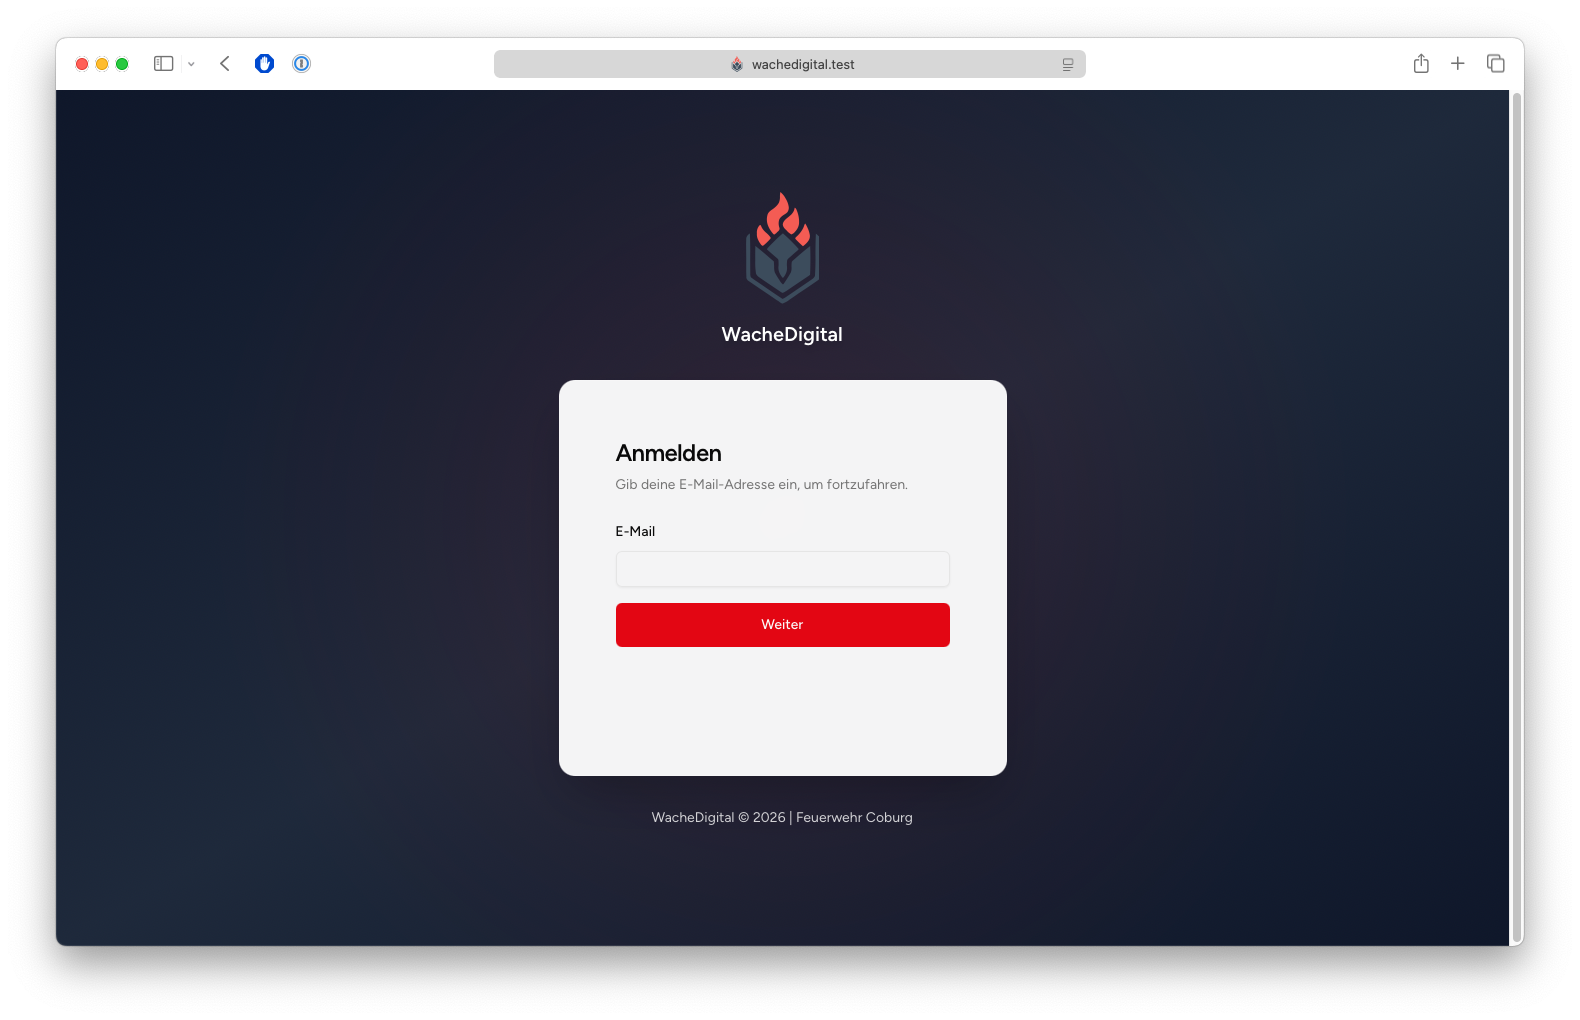
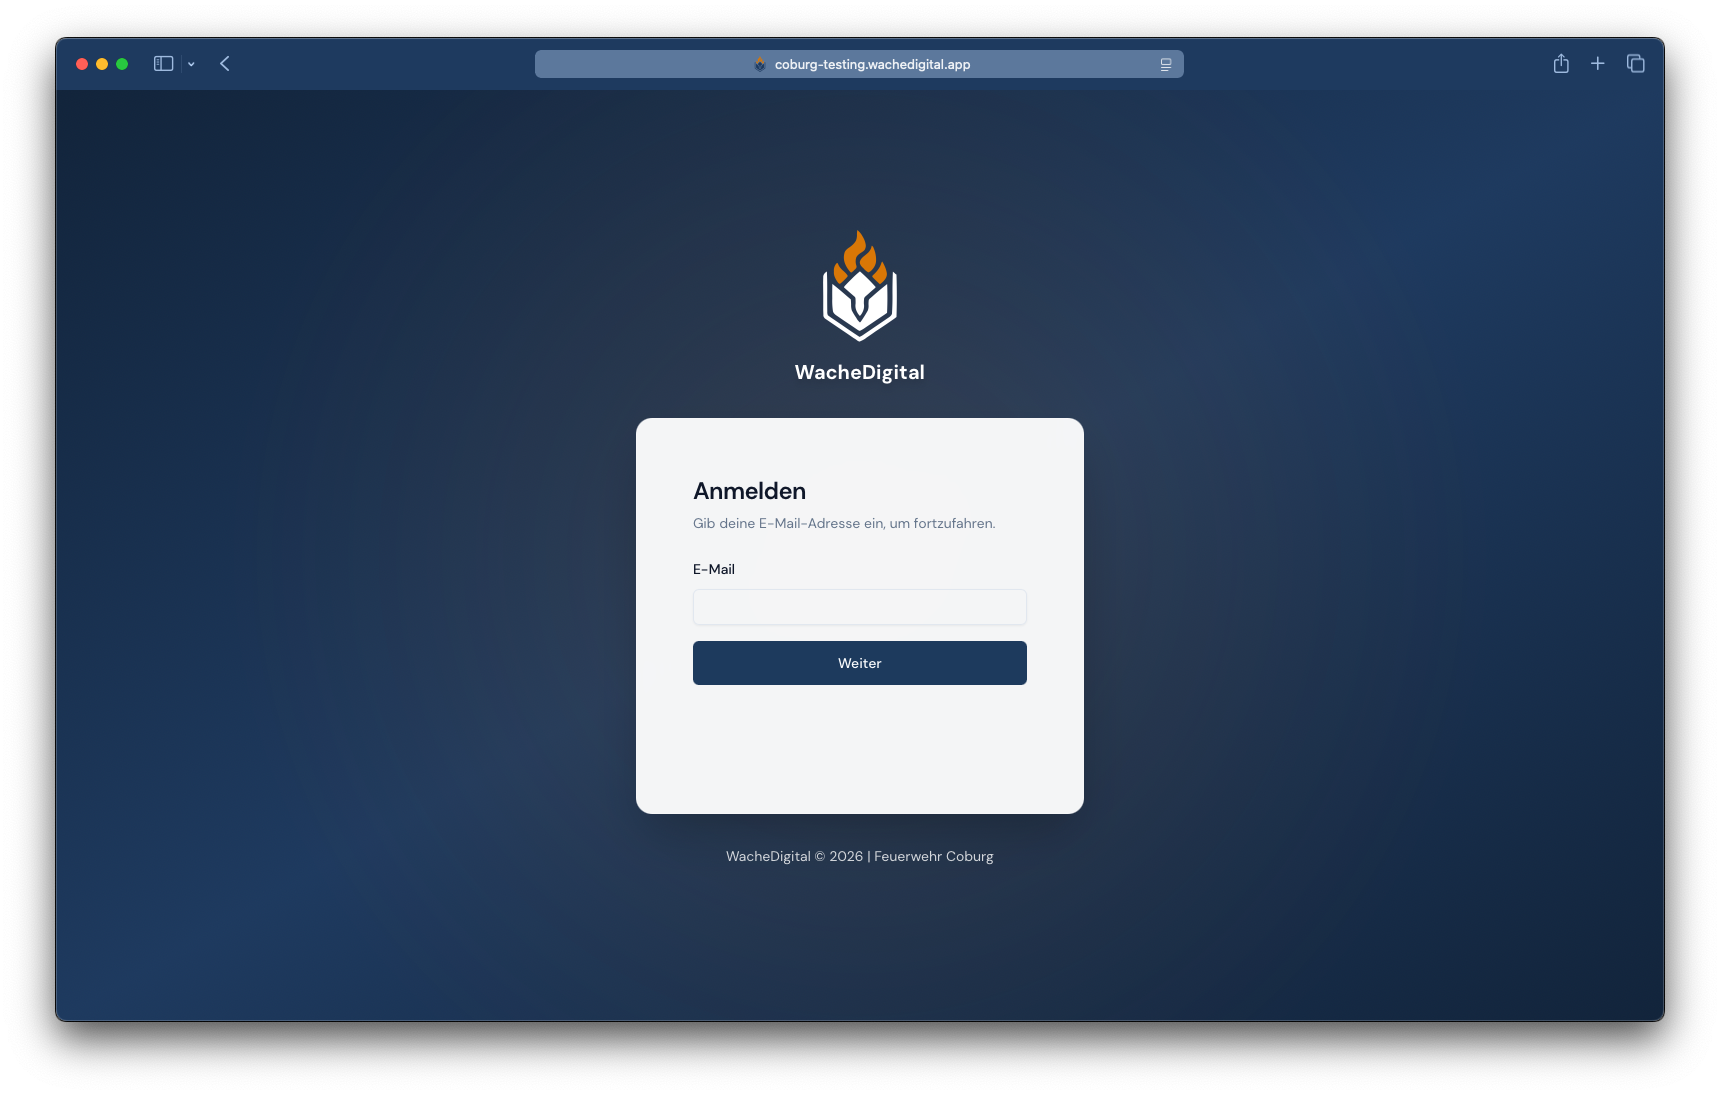
Updated README with instructions for converting images to WebP format, added WebP version of the WacheDigital login image, and updated project markdown to reference the new image.

diff --git a/README.md b/README.md
@@ -48,6 +48,32 @@ tags: ["React", "TypeScript"]
 Hier kommt der Inhalt des Projekts...
 ```
 
+## Bilder in WebP umwandeln (macOS)
+
+Projektbilder sollten im WebP-Format gespeichert werden, da es deutlich kleinere Dateigrößen bei vergleichbarer Qualität bietet.
+
+### cwebp installieren
+
+```bash
+brew install webp
+```
+
+### Einzelnes Bild umwandeln
+
+```bash
+cwebp -q 80 input.png -o output.webp
+```
+
+`-q 80` setzt die Qualität auf 80% (empfohlen für Projektbilder).
+
+### Alle PNGs in einem Ordner umwandeln
+
+```bash
+for file in public/images/projects/*.png; do
+  cwebp -q 80 "$file" -o "${file%.png}.webp"
+done
+```
+
 ## Projektstruktur
 
 ```

diff --git a/src/content/projects/wachedigital-service-planning.md b/src/content/projects/wachedigital-service-planning.md
@@ -3,7 +3,7 @@ title: "WacheDigital"
 description: "A modern web platform transforming volunteer fire department administration from paper-based processes to a centralized, process-oriented system with intelligent scheduling and hybrid digital-analog workflows."
 date: "2025-12-01"
 tags: ["PHP", "Laravel", "React", "InertiaJS", "REST-API", "Scheduling", "Fire Department"]
-image: "/images/projects/wachedigital-dienstplan.webp"
+image: "/images/projects/wachedigital-login.webp"
 ---
 
 ## About the Project
